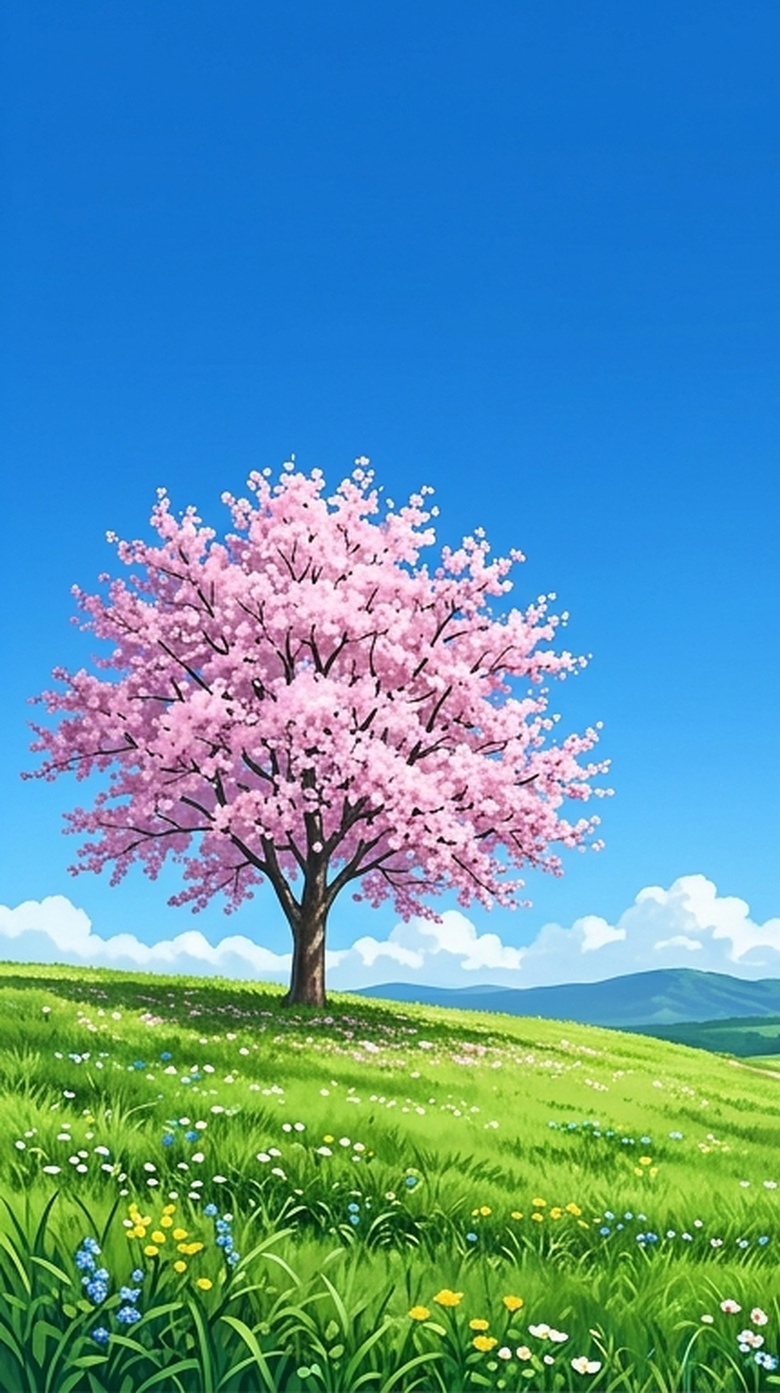
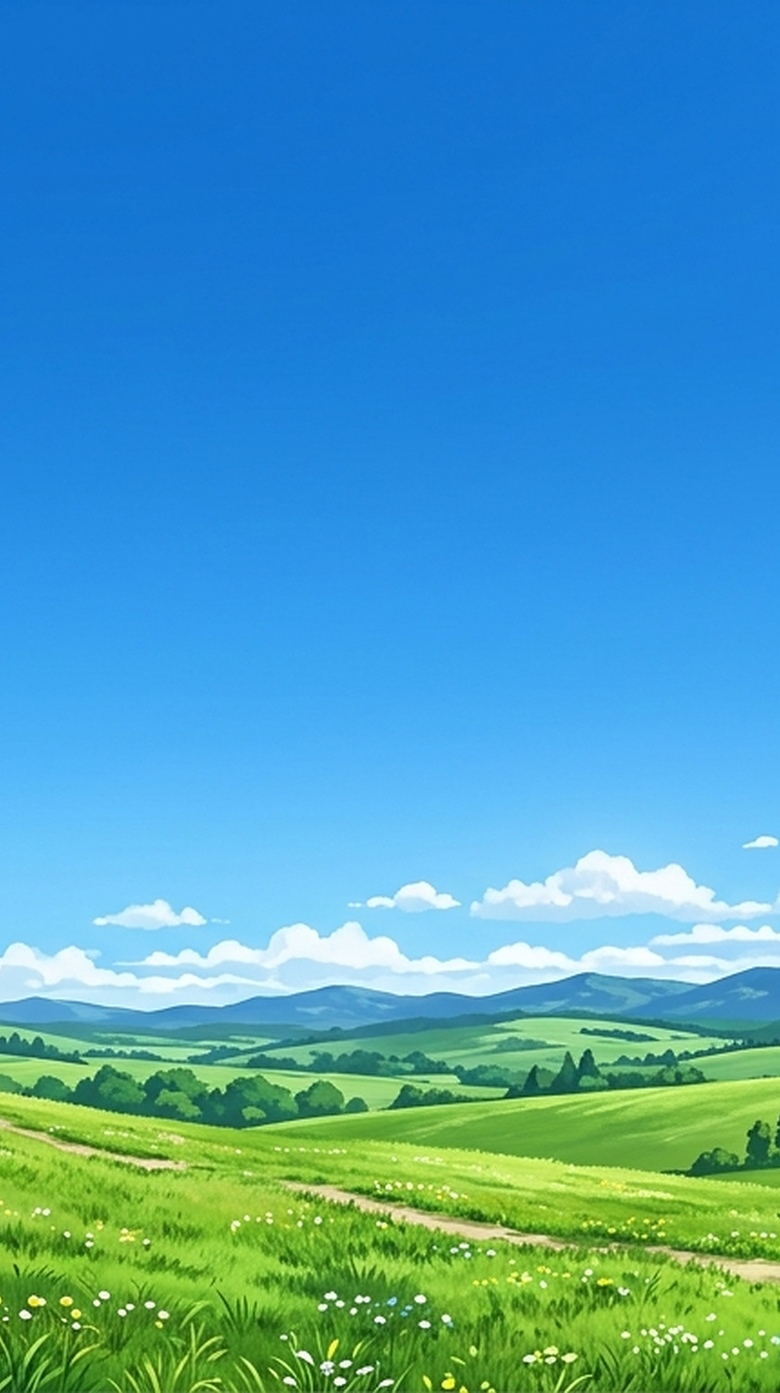
fix(mobile): use serene open sky and rolling meadow composition for mobile hero

diff --git a/frontend/src/components/site/HomePage.tsx b/frontend/src/components/site/HomePage.tsx
@@ -124,7 +124,7 @@ function Hero() {
     <section className="hero-sky relative mx-auto flex min-h-[90svh] sm:min-h-[min(88vh,820px)] w-full items-center justify-center overflow-hidden px-4 pt-24 pb-12 sm:px-8 sm:py-28 text-white">
       {/* 4K Daylight Landscape: Responsive portrait on mobile, ultra-wide landscape on desktop */}
       <picture>
-        <source media="(max-width: 639px)" srcSet="/hero-day-mobile.jpg?v=1" />
+        <source media="(max-width: 639px)" srcSet="/hero-day-mobile.jpg?v=2" />
         <img src="/hero-day.jpg?v=11" alt="" className="hero-photo select-none" />
       </picture>
 
